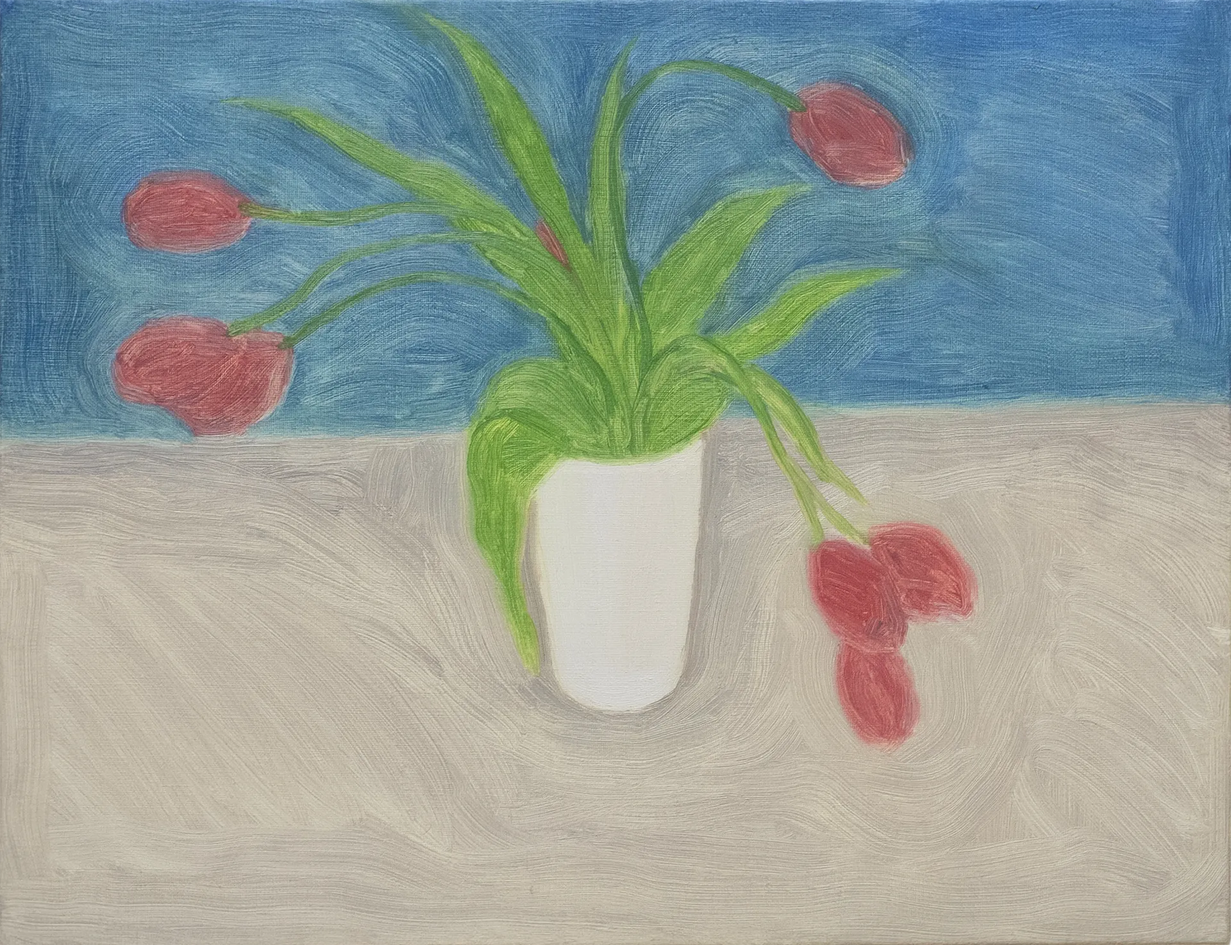
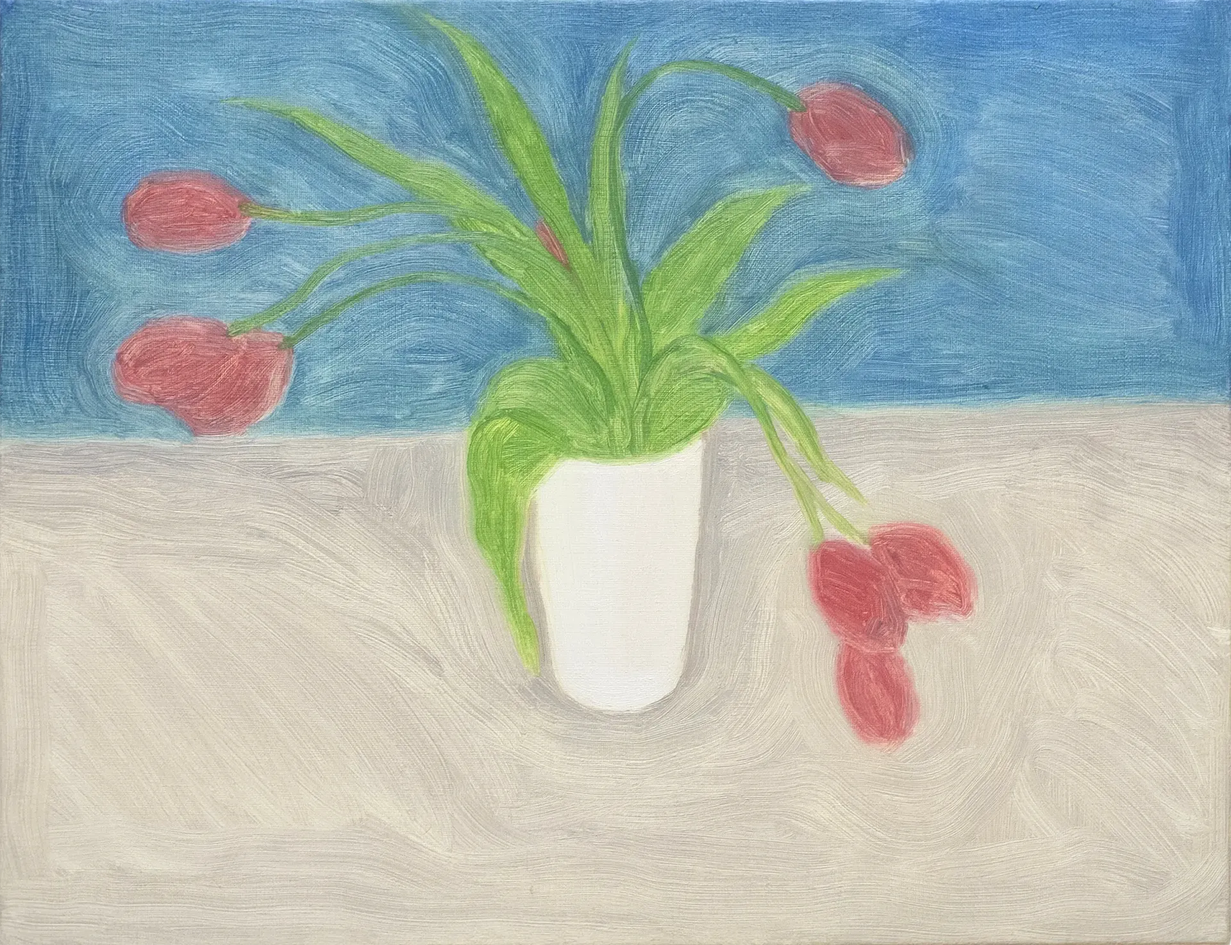
구성수정

diff --git a/js/data.js b/js/data.js
@@ -44,8 +44,24 @@ CICA 미술관, 김포.
 살구다방, 서울.`,
         statement: `작품 활동과 함께, 서울과학기술대학교 시각디자인학과 타이포그래피 연구실에서 “타이포그래피의 의미와 구조”에 관한 연구를 진행하고 있다. 작업을 아우르는 핵심 주제는 “언어”와 “이미지”의 “관계”이다. 시각 예술은 항상 이미지로 존재하지만, 그 이미지는 세상에 보이는 순간부터 언어나 기호처럼 작동하게 된다. 초기 작업에선 이러한 작동 원리에 의구심을 갖고 이미지를 ‘언어와 구별된 순수한 대상’으로 분리하고자 하였으나, 이미지가 인식되는 순간 발생하는 언어의 개입을 완전히 차단하는 것에는 번번이 실패하였다. 역설적이게도, 이러한 실패는 두 대상 사이의 불가분한 관계에 관한 호기심으로 이어졌다. 지금은 시각화된 언어로서의 문자와, 물질화된 문자인 활자 등에 주목하고 있다.`
     },
-    drawing: [],
+    drawing: [
+
+    ],
     painting: [
+        { src: "images/painting/munjado-13.webp", caption: "문자도, 2025, 한지에 먹과 아크릴, 판넬 배접, 59.4*84.1cm.", size: 2, break: true },
+        { src: "images/painting/munjado-11.webp", caption: "문자도, 2024, 한지에 아크릴, 판넬 배접, 30*42.2cm.", size: 1.5 },
+        { src: "images/painting/munjado-12.webp", caption: "문자도, 2024, 한지에 아크릴, 판넬 배접, 30*42.2cm.", size: 1.5, break: true },
+        { src: "images/painting/munjado-10.webp", caption: "문자도, 2024, 한지에 먹과 아크릴, 판넬 배접, 50*50cm.", size: 1.5, break: true },
+        { src: "images/painting/kafka.webp", caption: "프란츠 카프카의 변신, 2024, 제소 보드에 아크릴, 30*30cm(*9개).", size: 2, break: true },
+        { src: "images/painting/munjado-1.webp", caption: "문자도, 2023, 한지에 먹과 호분, 판넬 배접, 84.1*59.4cm." },
+        { src: "images/painting/munjado-2.webp", caption: "문자도, 2023, 한지에 먹과 호분, 판넬 배접, 84.1*59.4cm." },
+        { src: "images/painting/munjado-3.webp", caption: "문자도, 2023, 한지에 먹과 호분, 판넬 배접, 84.1*59.4cm." },
+        { src: "images/painting/munjado-4.webp", caption: "문자도, 2023, 한지에 먹과 호분, 판넬 배접, 84.1*59.4cm." },
+        { src: "images/painting/munjado-5.webp", caption: "문자도, 2023, 한지에 먹과 호분, 판넬 배접, 84.1*59.4cm." },
+        { src: "images/painting/munjado-6.webp", caption: "문자도, 2023, 한지에 먹과 호분, 판넬 배접, 84.1*59.4cm." },
+        { src: "images/painting/munjado-7.webp", caption: "문자도, 2023, 한지에 먹과 아크릴, 판넬 배접, 84.1*59.4cm.", break: true },
+        { src: "images/painting/munjado-9.webp", caption: "문자도, 2023, 한지에 먹과 아크릴, 호분, 판넬 배접, 27.5*22cm." },
+        { src: "images/painting/munjado-8.webp", caption: "문자도, 2023, 한지에 먹과 아크릴, 판넬 배접, 25*25cm.", break: true },
         { src: "images/painting/moon.webp", caption: "달, 2022, 한지에 분채, 판넬 배접, 118.9*84.1cm.", size: 1.5 },
         { src: "images/painting/mountain.webp", caption: "산, 2022, 한지에 분채, 판넬 배접, 118.9*84.1cm.", size: 1.5, break: true },
         { src: "images/painting/love.webp", caption: "사랑, 2022, 한지에 분채, 84.1*59.4cm." },
@@ -69,10 +85,6 @@ CICA 미술관, 김포.
         { src: "images/painting/stilllife-6.webp", caption: "untitled, 2020, 한지에 분채, 판넬 배접, -.", size: 1.5 },
         { src: "images/painting/stilllife-5.webp", caption: "untitled, 2020, 한지에 분채, 판넬 배접, -." },
         { src: "images/painting/stilllife-4.webp", caption: "untitled, 2020, 한지에 분채, 판넬 배접, -.", break: true },
-        { src: "images/painting/stilllife-3.webp", caption: "untitled, 2018, 캔버스에 유채, -.", size: 1.5 },
-        { src: "images/painting/stilllife-2.webp", caption: "untitled, 2018, 캔버스에 유채, -.", size: 1.5, break: true },
-        { src: "images/painting/stilllife-1.webp", caption: "춤, 2018, 캔버스에 유채, -.", size: 1.5, break: true },
-        { src: "images/painting/portrait-3.webp", caption: "초상화, 2017, 캔버스에 유채, -.", size: 1.5, break: true },
         { src: "images/painting/portrait-2.webp", caption: "초상화, 2017, 캔버스에 유채, -.", size: 1.5 }
     ],
     graphic: [
